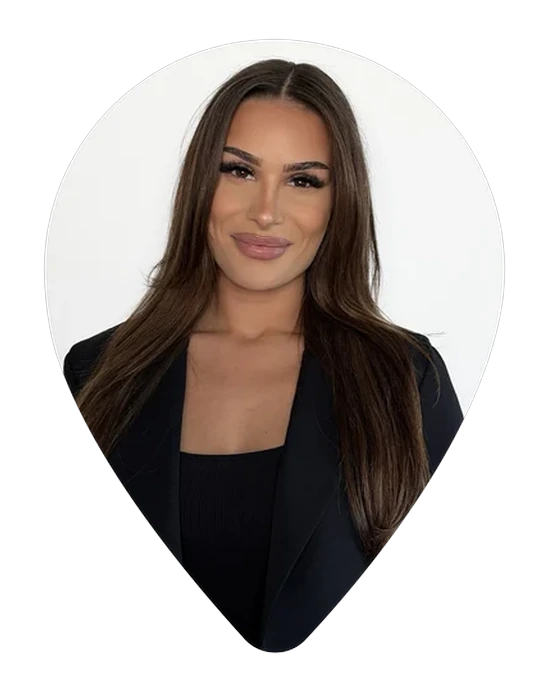
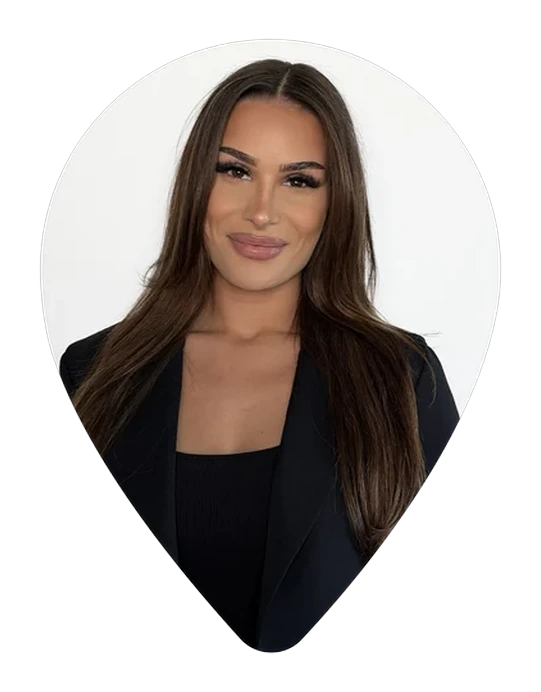
team-pins: tobias-spitze rekonstruiert (quelle war am rand gekappt) + cache-bust

diff --git a/design-preview/index.html b/design-preview/index.html
@@ -452,9 +452,9 @@
         <h2>Ein starkes Team für deinen Erfolg.</h2>
       </div>
       <div class="team-row">
-        <div class="tm" data-r><img src="/assets/images/team/tobias.webp" alt="Tobias Frank — Inhaber Lokalbesucher GmbH" width="275" height="346" loading="lazy"><div class="tm-name">Tobias Frank</div><div class="tm-role">Inhaber &amp; Geschäftsführer</div></div>
-        <div class="tm" data-r><img src="/assets/images/team/lucy.webp" alt="Lucy Kalweit — Teamleitung Social Media, Lokalbesucher" width="275" height="346" loading="lazy"><div class="tm-name">Lucy Kalweit</div><div class="tm-role">Teamleitung Social Media</div></div>
-        <div class="tm" data-r><img src="/assets/images/team/mara.webp" alt="Mara Goronschewski — Social Media Managerin, Lokalbesucher" width="275" height="346" loading="lazy"><div class="tm-name">Mara Goronschewski</div><div class="tm-role">Social Media Managerin</div></div>
+        <div class="tm" data-r><img src="/assets/images/team/tobias.webp?v=2" alt="Tobias Frank — Inhaber Lokalbesucher GmbH" width="271" height="346" loading="lazy"><div class="tm-name">Tobias Frank</div><div class="tm-role">Inhaber &amp; Geschäftsführer</div></div>
+        <div class="tm" data-r><img src="/assets/images/team/lucy.webp?v=2" alt="Lucy Kalweit — Teamleitung Social Media, Lokalbesucher" width="271" height="346" loading="lazy"><div class="tm-name">Lucy Kalweit</div><div class="tm-role">Teamleitung Social Media</div></div>
+        <div class="tm" data-r><img src="/assets/images/team/mara.webp?v=2" alt="Mara Goronschewski — Social Media Managerin, Lokalbesucher" width="271" height="346" loading="lazy"><div class="tm-name">Mara Goronschewski</div><div class="tm-role">Social Media Managerin</div></div>
       </div>
       <div style="text-align:center;margin-top:2.2rem"><a href="/unser-team/" class="btn btn-o">Das ganze Team kennenlernen</a></div>
     </div>
